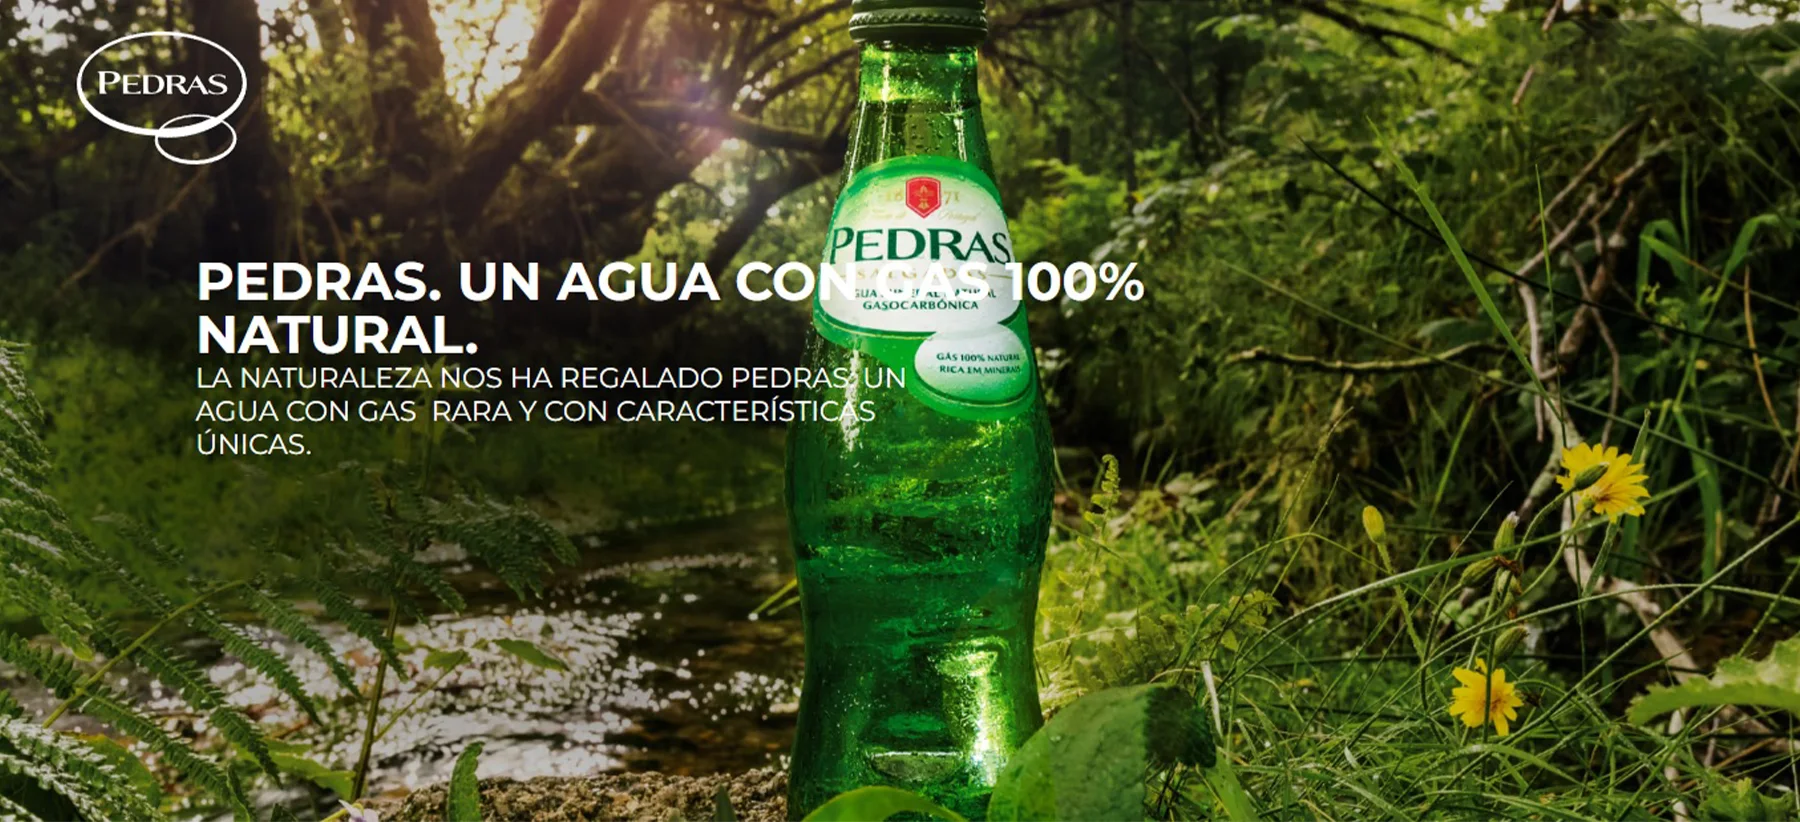
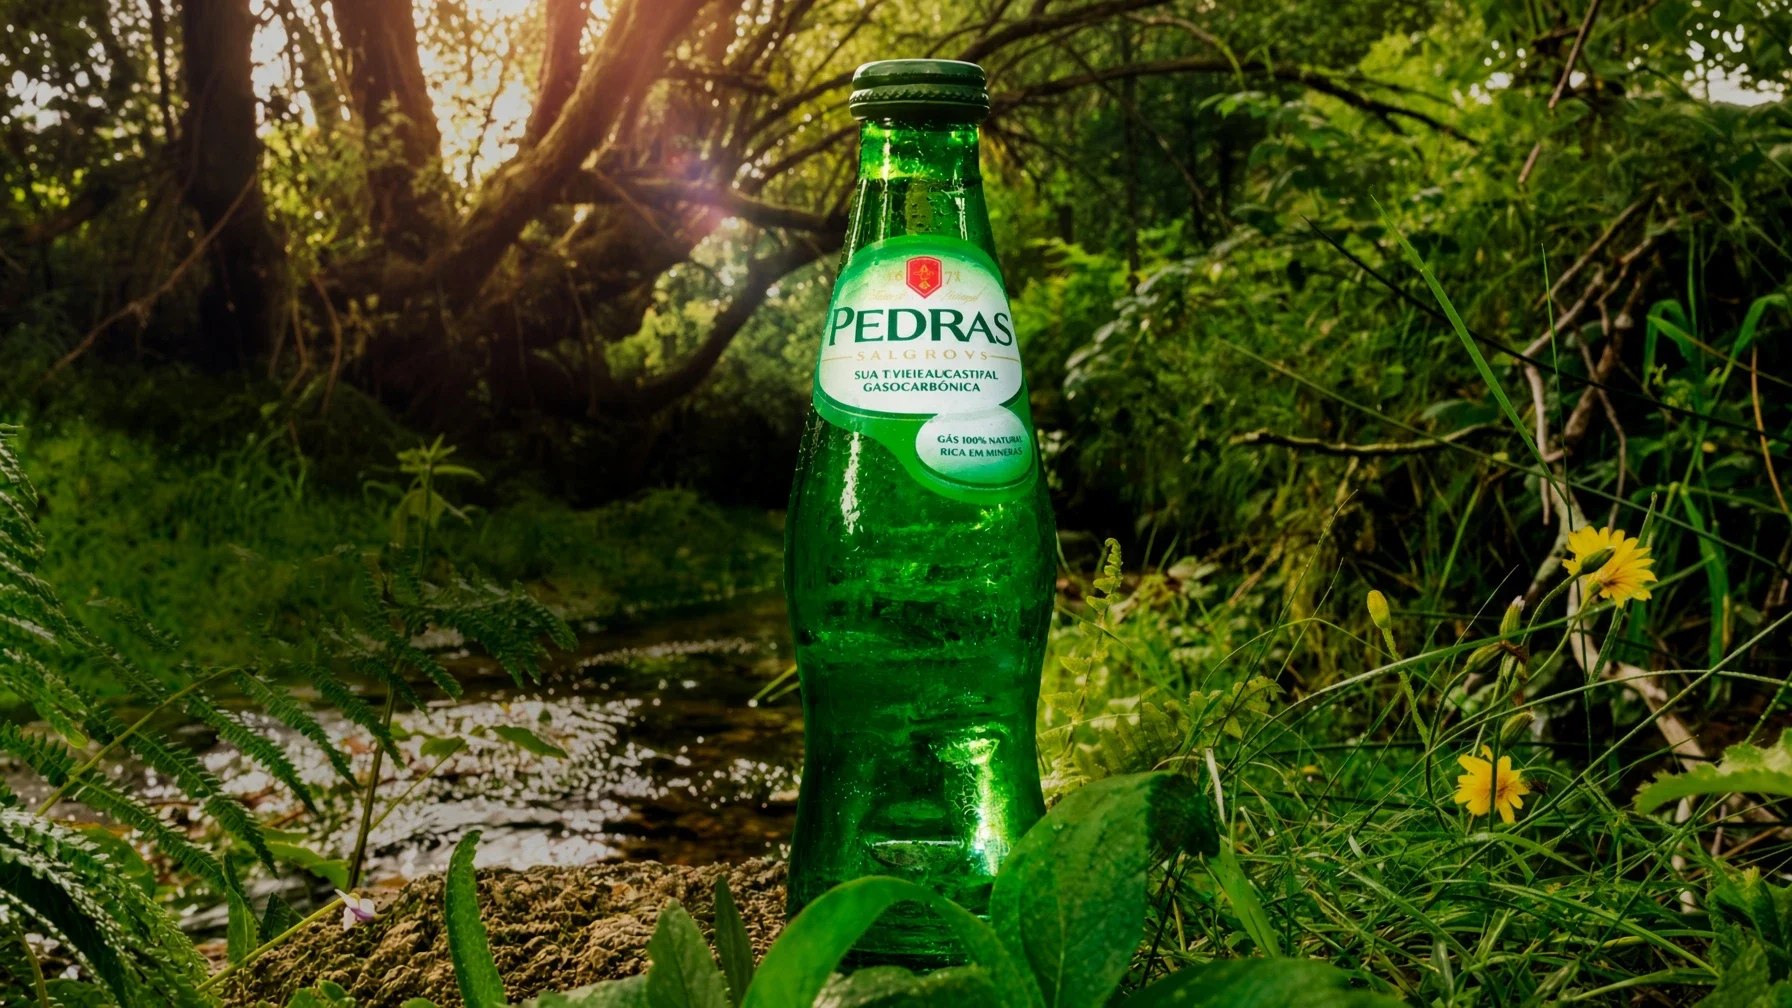
Aguas: nueva foto de portada (botella de Pedras en el arroyo), con la botella a la derecha del titular Co-Authored-By: Claude Sonnet 5.5 <noreply@anthropic.com> Claude-Session: https://claude.ai/code/session_01TfVuY2sTVvMwp4RqzYabW2

diff --git a/agua.html b/agua.html
@@ -10,7 +10,7 @@
   <link rel="preconnect" href="https://fonts.gstatic.com" crossorigin>
   <link href="https://fonts.googleapis.com/css2?family=Jost:wght@400;500;600;700&display=swap" rel="stylesheet">
   <link rel="stylesheet" href="product-world.css?v=722e80fc">
-  <link rel="stylesheet" href="agua.css?v=970bf12d">
+  <link rel="stylesheet" href="agua.css?v=734a2ac2">
 <link rel="icon" type="image/png" href="assets/logo.png">
 <link rel="apple-touch-icon" href="assets/apple-touch-icon.png">
 <link rel="stylesheet" href="site-header.css?v=5d001855">
@@ -58,7 +58,7 @@
   <main id="contenido">
     <section class="pw-opening pw-photo" aria-labelledby="pw-title">
       <div class="pw-opening-copy"><p class="pw-kicker">Distribuciones Valentín / Aguas</p><h1 id="pw-title">Cada agua tiene<br><em>su lugar en la mesa.</em></h1><p>El agua también se elige: cinco marcas —Bezoya, Nestlé Aquarel, S.Pellegrino, Pedras y Perrier— para cada momento de tu servicio.</p><details class="pw-more-text"><summary>Ver más</summary><p>Bezoya, de Segovia, se presenta como «un agua de mineralización muy débil»; Nestlé Aquarel invita a «reconectar con lo natural», con origen en Reservas de la Biosfera de la UNESCO. S.Pellegrino, en vidrio, sostiene que «lo que cuenta es lo que cada uno trae a la mesa»; Pedras es «un agua con gas 100 % natural», también en sabores; Perrier aporta la burbuja de su botella verde, pensada también para la barra. Te las servimos para hostelería, en los formatos que pedimos en cada marca.</p></details><a class="pw-action" href="#familias">Descubrir las aguas <span aria-hidden="true">↓</span></a></div>
-      <img class="pw-opening-bg" src="assets/agua/portada-agua.webp" width="1800" height="822" alt="Aguas Bezoya, Pedras, Aquarel, S.Pellegrino y Perrier junto a una cascada" fetchpriority="high">
+      <img class="pw-opening-bg" src="assets/agua/portada-agua.webp" width="1792" height="1008" alt="Aguas Bezoya, Pedras, Aquarel, S.Pellegrino y Perrier junto a una cascada" fetchpriority="high">
       <div class="pw-opening-bottom"><span>Una selección para hostelería</span><span>Desliza para explorar ↓</span></div>
     </section>
     <div id="familias" class="pw-world" aria-label="Selección de aguas"></div>

diff --git a/index.html b/index.html
@@ -157,7 +157,7 @@
     </div>
     <div class="cards">
       <a class="card card-photo" href="pascual.html"><img src="assets/pascual/portada-pascual.webp" width="1200" height="1200" loading="lazy" decoding="async" style="object-position:62% 50%" alt="Botella de leche Pascual Profesional Extra Crème sirviendo leche en una jarra"><div class="card-in"><h3>Lácteos</h3><p>Grupo Leche Pascual · Explorar la gama</p></div></a>
-      <a class="card card-photo" href="agua.html"><img src="assets/agua/portada-agua.webp" width="1800" height="822" loading="lazy" decoding="async" style="object-position:100% 50%" alt="Botellas de agua entre la vegetación junto a un arroyo"><div class="card-in"><h3>Aguas</h3><p>Bezoya · Aquarel · S.Pellegrino · Pedras · Perrier</p></div></a>
+      <a class="card card-photo" href="agua.html"><img src="assets/agua/portada-agua.webp" width="1792" height="1008" loading="lazy" decoding="async" style="object-position:52% 50%" alt="Botellas de agua entre la vegetación junto a un arroyo"><div class="card-in"><h3>Aguas</h3><p>Bezoya · Aquarel · S.Pellegrino · Pedras · Perrier</p></div></a>
       <a class="card card-photo" href="vinos.html"><img src="assets/vinos/portada-vinos.webp" width="1376" height="768" loading="lazy" decoding="async" style="object-position:62% 50%" alt="Botellas Palacio de Bornos sobre una barrica frente a un viñedo"><div class="card-in"><h3>Vinos</h3><p>Explorar la selección</p></div></a>
       <a class="card card-photo card-wide" href="despensa.html"><img src="assets/despensa/portada-despensa.webp" width="1800" height="800" loading="lazy" decoding="async" style="object-position:2% 50%" alt="Hamburguesa y sobres de salsa Prima en un servicio de hostelería"><div class="card-in"><h3>Aceite y conservas</h3><p>Salsas, conservas y AOVE. Conservas Calvo</p></div></a>
       <a class="card card-photo" href="cafe-mocay.html"><img src="assets/mocay/portada-mocay.webp" width="1792" height="1008" loading="lazy" decoding="async" style="object-position:72% 50%" alt="Manos seleccionando granos de café y bolsas de Café Mocay"><div class="card-in"><h3>Café</h3><p>Café Mocay</p></div></a>

diff --git a/agua.css b/agua.css
@@ -20,5 +20,6 @@
 .water-world .pw-b-image img{max-width:100%;max-height:100%;height:auto;width:auto;object-fit:contain}
 
 /* La portada trae un titular dentro de la foto: se encuadra a la derecha para que no pise el texto de la página */
-.pw-photo .pw-opening-bg[src*="portada-agua"]{object-position:100% 50%}
-@media(max-width:760px){.pw-photo .pw-opening-bg[src*="portada-agua"]{object-position:78% 50%}}
+/* escritorio: la botella queda a la derecha del titular y la foto se funde con el fondo por la izquierda */
+.pw-photo .pw-opening-bg[src*="portada-agua"]{left:32%;width:68%;object-position:50% 50%;-webkit-mask-image:linear-gradient(90deg,transparent 0,#000 30%);mask-image:linear-gradient(90deg,transparent 0,#000 30%)}
+@media(max-width:760px){.pw-photo .pw-opening-bg[src*="portada-agua"]{left:auto;width:100vw;object-position:52% 50%;-webkit-mask-image:linear-gradient(to bottom,#000 0,#000 52%,transparent 100%);mask-image:linear-gradient(to bottom,#000 0,#000 52%,transparent 100%)}}
